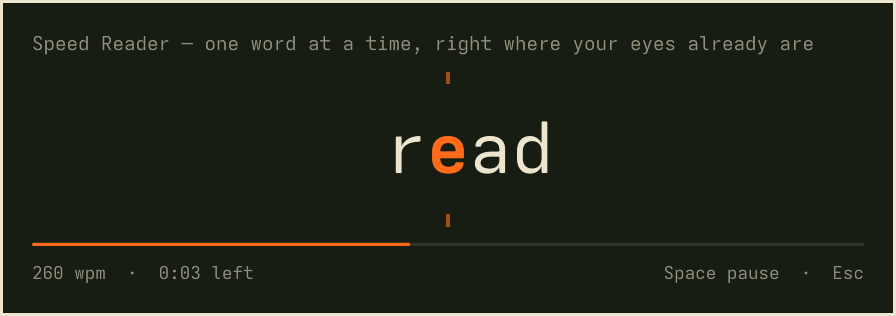
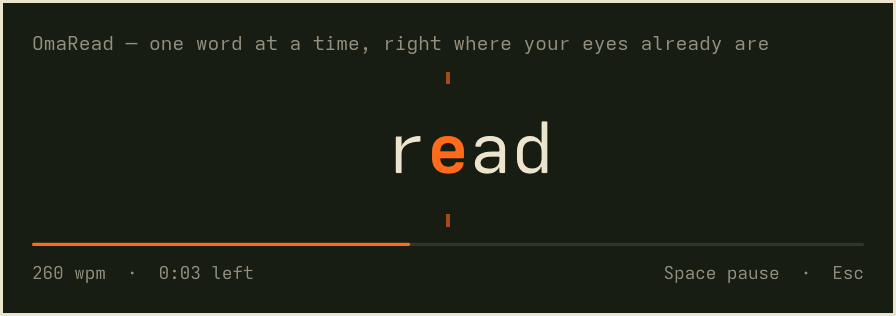
Rename to OmaRead; restrict webpage fetches to public addresses with a size cap
- New id io.github.rmc507.omaread, name OmaRead, version 1.2.0.
- Replace curl with a stdlib fetch that resolves every hop (including
  redirects) and refuses non-public addresses, connects to the checked IP,
  ignores proxy environment variables, and stops at 5 MB.
- Cap local file size and the text handed to the shell.
- Add fetch-text tests.

Claude-Session: https://claude.ai/code/session_01Jaahk6MfjbGZmmjD8Y8ZP1

Changed region(s): [[0.0312, 0.1139, 0.9062, 0.1709]]

diff --git a/tests/reader-model.test.js b/tests/reader-model.test.js
@@ -19,10 +19,10 @@ test("normalizeConfig keeps only wpm, source and fontSize", () => {
 })
 
 test("findEntry reads our plugins[] entry and tolerates bad JSON", () => {
-  const json = JSON.stringify({ plugins: [{ id: "other" }, { id: "io.github.rmc507.speed-reader", wpm: 420 }] })
-  assert.equal(M.findEntry(json, "io.github.rmc507.speed-reader").wpm, 420)
-  assert.deepEqual(M.findEntry("{not json", "io.github.rmc507.speed-reader"), {})
-  assert.deepEqual(M.findEntry(JSON.stringify({ bar: {} }), "io.github.rmc507.speed-reader"), {})
+  const json = JSON.stringify({ plugins: [{ id: "other" }, { id: "io.github.rmc507.omaread", wpm: 420 }] })
+  assert.equal(M.findEntry(json, "io.github.rmc507.omaread").wpm, 420)
+  assert.deepEqual(M.findEntry("{not json", "io.github.rmc507.omaread"), {})
+  assert.deepEqual(M.findEntry(JSON.stringify({ bar: {} }), "io.github.rmc507.omaread"), {})
 })
 
 test("parseFetchOutput splits title from body", () => {

diff --git a/SpeedReader.qml b/SpeedReader.qml
@@ -13,7 +13,7 @@ Item {
   property var shell: null
   property var manifest: null
 
-  readonly property string pluginId: (manifest && manifest.id) || "io.github.rmc507.speed-reader"
+  readonly property string pluginId: (manifest && manifest.id) || "io.github.rmc507.omaread"
   readonly property string fetchScript: decodeURIComponent(String(Qt.resolvedUrl("bin/fetch-text")).replace(/^file:\/\//, ""))
   readonly property string shellConfigPath: Quickshell.env("HOME") + "/.config/omarchy/shell.json"
 
@@ -260,7 +260,7 @@ Item {
     visible: root.opened
     anchors { top: true; bottom: true; left: true; right: true }
     color: "transparent"
-    WlrLayershell.namespace: "io.github.rmc507.speed-reader"
+    WlrLayershell.namespace: "io.github.rmc507.omaread"
     WlrLayershell.layer: WlrLayer.Overlay
     WlrLayershell.keyboardFocus: WlrKeyboardFocus.Exclusive
     exclusionMode: ExclusionMode.Ignore

diff --git a/tests/test_fetch_text.py b/tests/test_fetch_text.py
@@ -1,0 +1,107 @@
+# Run with: python3 -m unittest discover -s tests
+import http.server
+import importlib.machinery
+import importlib.util
+import threading
+import time
+import unittest
+from pathlib import Path
+
+path = Path(__file__).resolve().parent.parent / "bin" / "fetch-text"
+loader = importlib.machinery.SourceFileLoader("fetch_text", str(path))
+spec = importlib.util.spec_from_loader("fetch_text", loader)
+fetch_text = importlib.util.module_from_spec(spec)
+loader.exec_module(fetch_text)
+
+
+class FakeResponse:
+    def __init__(self, body: bytes, length=None):
+        self.body = body
+        self.length = length
+
+    def getheader(self, name):
+        return self.length if name == "Content-Length" else None
+
+    def read(self, size):
+        chunk, self.body = self.body[:size], self.body[size:]
+        return chunk
+
+
+class PublicAddressTests(unittest.TestCase):
+    def test_non_public_ips_are_rejected(self):
+        for ip in ["127.0.0.1", "10.1.2.3", "192.168.1.1", "172.16.0.1", "169.254.169.254",
+                   "100.64.0.1", "0.0.0.0", "::1", "fe80::1", "fd00::1", "::ffff:127.0.0.1", "224.0.0.1"]:
+            self.assertFalse(fetch_text.is_public_ip(ip), ip)
+
+    def test_public_ips_are_allowed(self):
+        for ip in ["1.1.1.1", "93.184.216.34", "2606:4700:4700::1111"]:
+            self.assertTrue(fetch_text.is_public_ip(ip), ip)
+
+    def test_localhost_names_are_refused(self):
+        with self.assertRaises(fetch_text.Fail):
+            fetch_text.public_addresses("localhost", 80)
+
+    def test_only_http_schemes(self):
+        for url in ["file:///etc/passwd", "ftp://example.com/", "http://"]:
+            with self.assertRaises(fetch_text.Fail):
+                fetch_text.fetch_html(url)
+
+
+class LocalServerTests(unittest.TestCase):
+    """A real server on loopback must never be reached."""
+
+    def setUp(self):
+        self.hits = 0
+        test = self
+
+        class Handler(http.server.BaseHTTPRequestHandler):
+            def do_GET(self):
+                test.hits += 1
+                self.send_response(200)
+                self.end_headers()
+                self.wfile.write(b"<p>secret</p>")
+
+            def log_message(self, *args):
+                pass
+
+        self.server = http.server.HTTPServer(("127.0.0.1", 0), Handler)
+        threading.Thread(target=self.server.serve_forever, daemon=True).start()
+
+    def tearDown(self):
+        self.server.shutdown()
+        self.server.server_close()
+
+    def test_loopback_url_is_refused_before_connecting(self):
+        port = self.server.server_address[1]
+        for url in [f"http://127.0.0.1:{port}/", f"http://localhost:{port}/", f"http://[::ffff:127.0.0.1]:{port}/"]:
+            with self.assertRaises(fetch_text.Fail):
+                fetch_text.fetch_html(url)
+        self.assertEqual(self.hits, 0)
+
+
+class SizeLimitTests(unittest.TestCase):
+    def test_reads_within_limit(self):
+        self.assertEqual(fetch_text.read_limited(FakeResponse(b"x" * 100), 100, time.monotonic() + 5), b"x" * 100)
+
+    def test_stops_past_limit_while_streaming(self):
+        with self.assertRaises(fetch_text.Fail):
+            fetch_text.read_limited(FakeResponse(b"x" * 200_000), 100_000, time.monotonic() + 5)
+
+    def test_rejects_oversized_content_length(self):
+        with self.assertRaises(fetch_text.Fail):
+            fetch_text.read_limited(FakeResponse(b"", length="999999999"), 1000, time.monotonic() + 5)
+
+
+class ExtractionTests(unittest.TestCase):
+    def test_article_text_skips_page_chrome(self):
+        page = ("<title>T</title><nav>Menu</nav><main><p>" + "Body text. " * 30 +
+                "</p><script>x()</script></main><footer>F</footer>")
+        title, text = fetch_text.html_to_text(page, article=True)
+        self.assertEqual(title, "T")
+        self.assertTrue(text.startswith("Body text."))
+        for junk in ("Menu", "x()", "F"):
+            self.assertNotIn(junk, text)
+
+
+if __name__ == "__main__":
+    unittest.main()

diff --git a/README.md b/README.md
@@ -1,6 +1,6 @@
-# Speed Reader
+# OmaRead
 
-![Speed Reader](preview.png)
+![OmaRead](preview.png)
 
 An Omarchy shell plugin that speed-reads text one word at a time in a
 centered, themed card. Point it at the clipboard, highlighted text, or a
@@ -30,24 +30,27 @@ empty it falls back to the highlighted (primary) selection.
 ## Install
 
 ```bash
-omarchy plugin add https://github.com/rmc507/omarchy-speed-reader.git --enable
+omarchy plugin add https://github.com/rmc507/omaread.git --enable
 ```
 
 Then add a keybinding to `~/.config/hypr/bindings.lua`:
 
 ```lua
-o.bind("SUPER + SHIFT + T", "Speed read clipboard", "omarchy-shell shell toggle io.github.rmc507.speed-reader '{}'")
+o.bind("SUPER + SHIFT + T", "OmaRead", "omarchy-shell shell toggle io.github.rmc507.omaread '{}'")
 ```
 
 ### Dependencies
 
-- `wl-clipboard`, `curl` and `python3`, all of which ship with Omarchy.
+- `wl-clipboard` and `python3`, both of which ship with Omarchy.
 - Optional: the [`defuddle`](https://github.com/kepano/defuddle) CLI. When it
   is on your `PATH`, webpages are cleaned with it; otherwise a built-in
   extractor keeps the page's `<article>`/`<main>` text.
 
 The plugin only reads `~/.config/omarchy/shell.json`; it never writes to your
 configuration. Webpages are downloaded as HTML and read as text, never run.
+Only public http(s) addresses are fetched (links to localhost or your local
+network are refused, including via redirects), proxy settings are ignored,
+and downloads stop at 5 MB.
 
 ## Configure
 
@@ -57,7 +60,7 @@ apply on save. All three are optional:
 ```jsonc
 "plugins": [
   {
-    "id": "io.github.rmc507.speed-reader",
+    "id": "io.github.rmc507.omaread",
     "wpm": 400,          // words per minute (60–1500)
     "source": "auto",    // auto | clipboard | selection
     "fontSize": 0        // word size in px; 0 follows the theme
@@ -75,10 +78,10 @@ The summon payload can override the source, so other bindings or scripts can
 read something specific:
 
 ```bash
-omarchy-shell shell toggle io.github.rmc507.speed-reader '{"source":"selection"}'
-omarchy-shell shell toggle io.github.rmc507.speed-reader '{"url":"https://example.com/post"}'
-omarchy-shell shell toggle io.github.rmc507.speed-reader '{"file":"~/Books/novel.epub"}'
-omarchy-shell shell toggle io.github.rmc507.speed-reader '{"text":"Read this.","title":"Note","wpm":400}'
+omarchy-shell shell toggle io.github.rmc507.omaread '{"source":"selection"}'
+omarchy-shell shell toggle io.github.rmc507.omaread '{"url":"https://example.com/post"}'
+omarchy-shell shell toggle io.github.rmc507.omaread '{"file":"~/Books/novel.epub"}'
+omarchy-shell shell toggle io.github.rmc507.omaread '{"text":"Read this.","title":"Note","wpm":400}'
 ```
 
 Files can be `.txt`, `.md`, `.html` or `.epub`. EPUBs are read in spine
@@ -106,7 +109,7 @@ version, run `omarchy restart shell`.
 ## Uninstall
 
 ```bash
-omarchy plugin remove io.github.rmc507.speed-reader
+omarchy plugin remove io.github.rmc507.omaread
 ```
 
 Then delete the `SUPER + SHIFT + T` binding from `~/.config/hypr/bindings.lua`.
